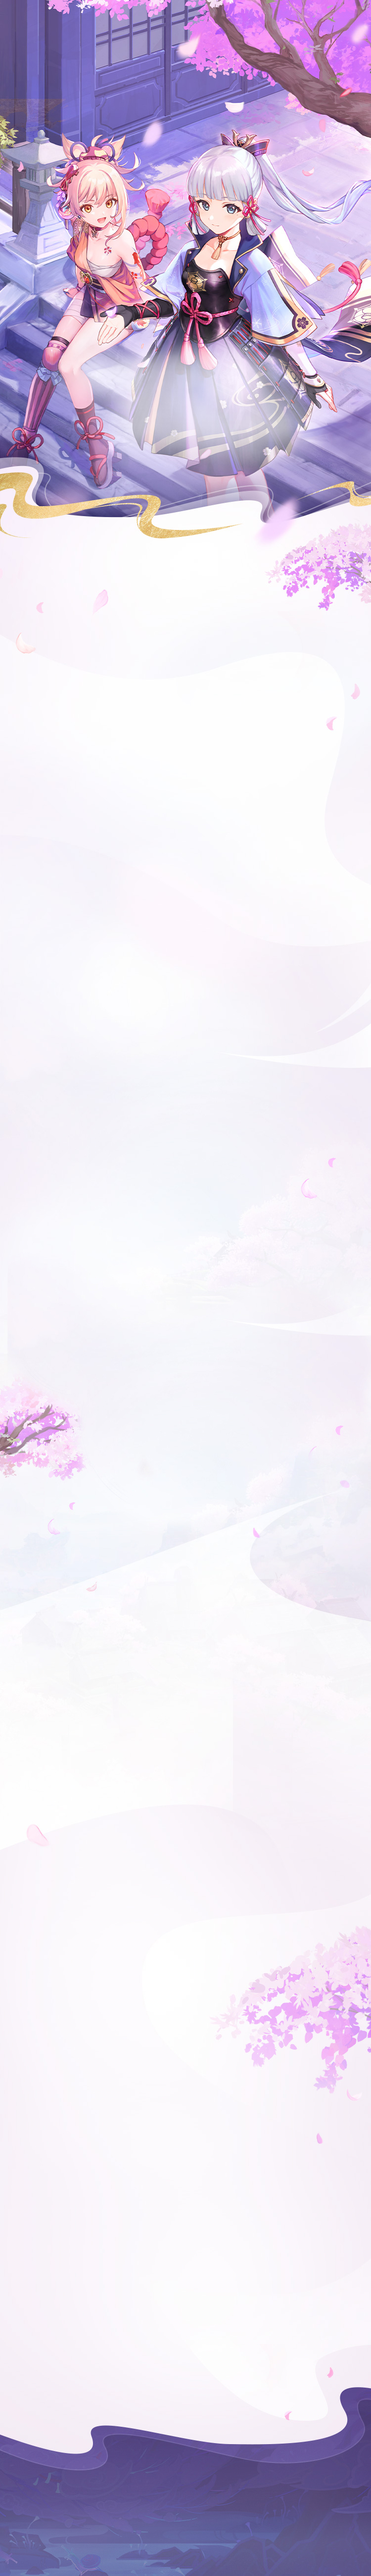
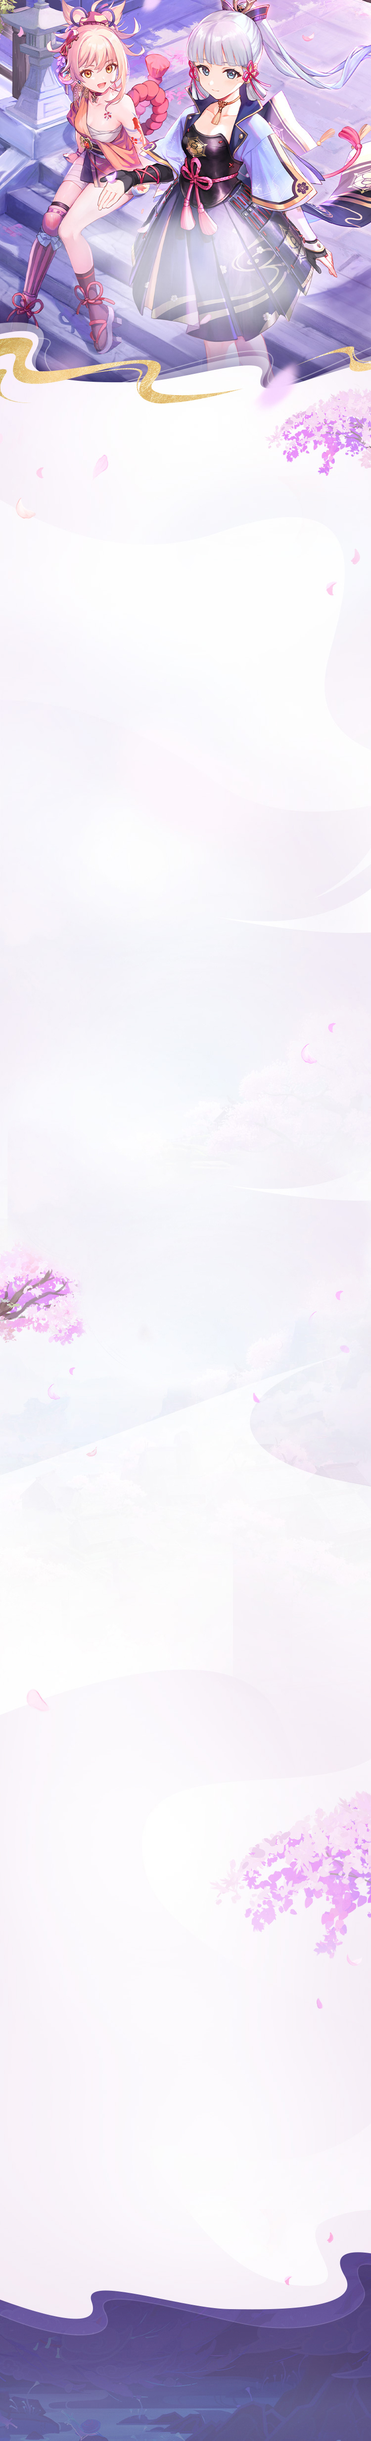
修改跑版

diff --git a/src/views/Home.vue b/src/views/Home.vue
@@ -105,29 +105,8 @@
     <h2>
       <img src="../assets/img/charater.png" class="title_img">
     </h2>
-    <div class="row flex-column ">
+    <div class="row">
       <div class="character_flex">
-        <!-- <b-carousel
-          id="carousel-3"
-          :interval="0"
-          controls
-        >
-          <b-carousel-slide v-for="(character, idx) in filtercharacter" :key="idx">
-            <template #img>
-              <img :src="character.attribute.image" class="character_attribute">
-              <img :src="character.big_image" class="character_bimg">
-            </template>
-             <p class="character_name">{{ character.name }}</p>
-             <div class="character_cv">
-               <p> CV: {{character.seiyuu }}</p>
-               <div class="character_voice" @click="playaudio(idx)"></div>
-               <div class="character_voice character_voice--active"  @click="stopaudio()" :style="seiyuu_audio"></div>
-             </div>
-             <div class="character_intro">
-               <div class="character_description">{{ character.description }}</div>
-             </div>
-          </b-carousel-slide>
-        </b-carousel> -->
         <div class="character_bk" v-for="(character, idx) in filtercharacter" :key="idx" :style="[character._id === changebimg ? {'display':'block'} : {'display':'none'}]">
           <div>
             <img :src="character.attribute.image" class="character_attribute">
@@ -144,14 +123,16 @@
           </div>
         </div>
       </div>
-      <ul class="character_sidebar">
-        <li class="charcter_city" v-for="country in countries" :key="country._id" @click="onChange(country._id)">
-          <p class="character_city_name">{{ country.name }}</p>
-        </li>
-      </ul>
-      <div class="character_small_out">
-        <div class="character_small_bg" v-for="(character, idx) in filtercharacter" :key="idx">
-          <img :src="character.small_image" class="character_small" role="button" @click="changeimg(character._id)">
+      <div class="character_select">
+        <ul class="character_sidebar">
+          <li class="charcter_city" v-for="country in countries" :key="country._id" @click="onChange(country._id)">
+            <p class="character_city_name">{{ country.name }}</p>
+          </li>
+        </ul>
+        <div class="character_small_out">
+          <div class="character_small_bg" v-for="(character, idx) in filtercharacter" :key="idx">
+            <img :src="character.small_image" class="character_small" role="button" @click="changeimg(character._id)">
+          </div>
         </div>
       </div>
     </div>
@@ -188,7 +169,7 @@
       </div>
     </div>
   </div>
-  <div class="container pt-5 pc_world" id="section03">
+  <div class="container pt-2 pc_world" id="section03">
     <h2>
       <img src="../assets/img/world.png" class="title_img">
       <img src="../assets/img/m_world.png" class="m_title_img">

diff --git a/src/views/Footer.vue b/src/views/Footer.vue
@@ -10,7 +10,7 @@
         </div>
       </div>
       <div class="col p-4">
-        <div class="links d-flex justify-content-start">
+        <div class="links">
           <a herf="" class="footer_link">隱私權政策</a>
           <a herf="" class="footer_link">使用者協議</a>
           <a herf="" class="footer_link">公司簡介</a>
@@ -22,12 +22,6 @@
         <div class="footer_content d-flex justify-content-start text-left">
           <p>本遊戲為免費使用，遊戲內另提供購買虛擬貨幣、物品等付費服務。請注意遊戲時間，避免沉迷。本遊戲部份情節涉及性、暴力。</p>
         </div>
-        <!-- <div class="extra-info d-flex justify-content-start text-left">
-          <p>"PlayStation Family Mark," "PS5 logo" and "PS4 logo" are registered trademarks or trademarks of Sony Interactive Entertainment Inc.</p>
-        </div>
-        <div class="d-flex justify-content-start text-left">
-          <p>Epic, Epic Games, Epic Games Store, the Epic Games Store logo, and Epic Online Services are trademarks and/or registered trademarks of Epic Games. All other trademarks are the property of their respective owners.</p>
-        </div> -->
         <div class="footer_img2">
           <img src='../assets/img/footer.png'>
         </div>
